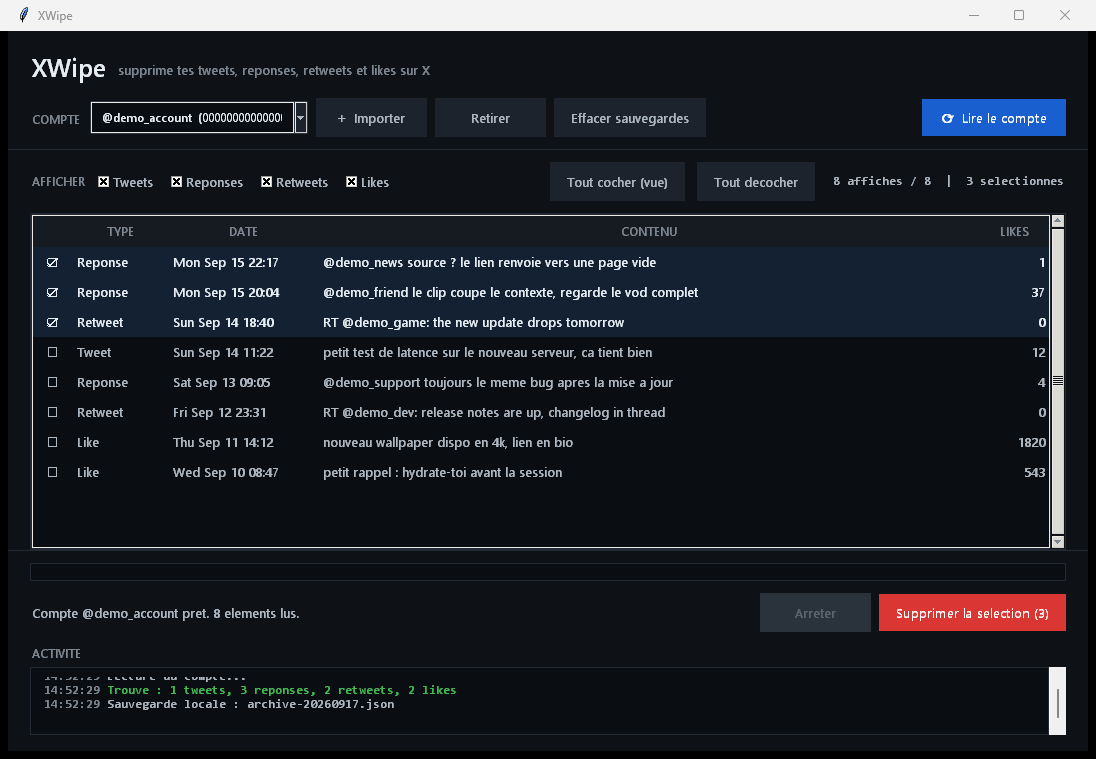
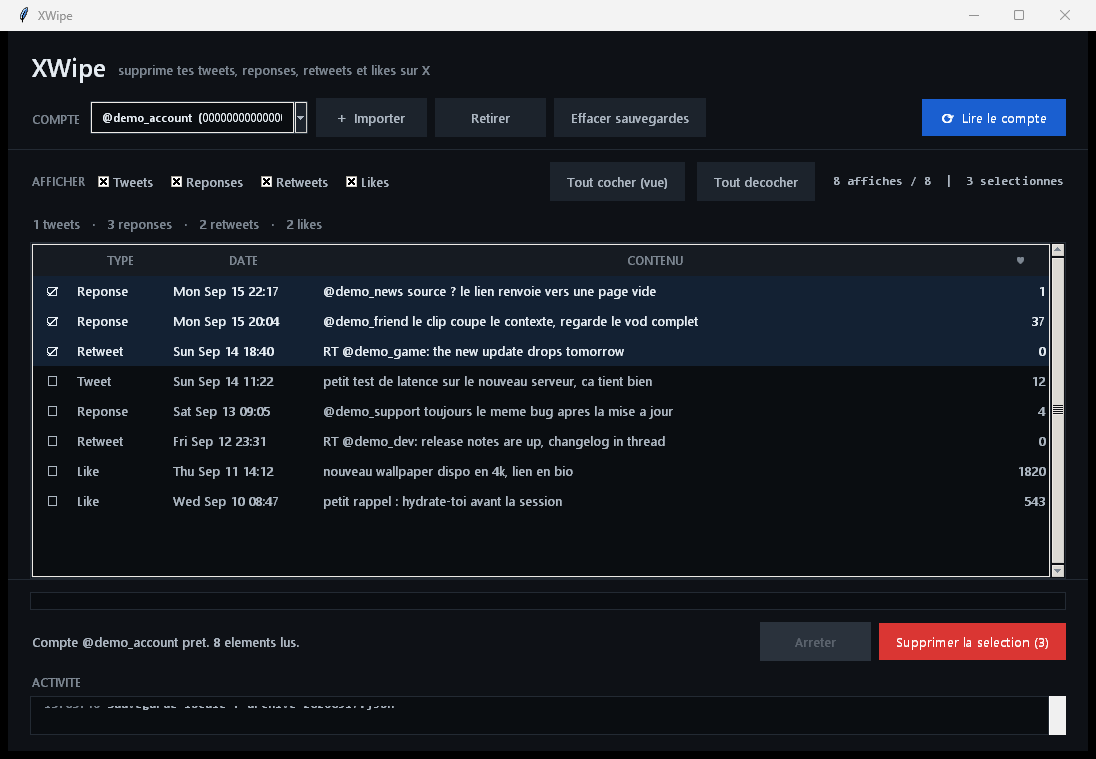
Handle large lists and clarify the table
Insert rows in batches so a scan with thousands of likes never freezes the UI
(3000 rows load in under 0.1s), with a generation guard that cancels a fill in
progress when a filter changes. Bulk check/uncheck now covers the whole filtered
view, not only the rows already inserted, so selecting all of several thousand
likes works while the table is still filling.

Add a per-category recap line (N tweets, replies, retweets, likes) for
at-a-glance recognition, and rename the metric column to a heart so the word
"like" no longer means the column, the row type, and the filter at once.

diff --git a/xwipe/app.py b/xwipe/app.py
@@ -109,6 +109,8 @@ class App(tk.Tk):
         self.checked: set[str] = set()
         self.row_by_iid: dict[str, dict] = {}
         self.current: dict | None = None
+        self._gen = 0                # generation, pour annuler un remplissage en cours
+        self._pending: list[dict] = []  # lignes filtrees a inserer par lots
 
         self._build_style()
         self._build_layout()
@@ -234,6 +236,12 @@ class App(tk.Tk):
         ttk.Button(filt, text="Tout cocher (vue)", style="Ghost.TButton",
                    command=self._check_all).pack(side="right", padx=SP["xs"])
 
+        # -- Recap par categorie : reconnaissance d'un coup d'oeil ------------
+        brk = ttk.Frame(self, padding=(SP["xl"], 0, SP["xl"], SP["sm"]))
+        brk.pack(fill="x")
+        self.breakdown = ttk.Label(brk, text="", style="Muted.TLabel")
+        self.breakdown.pack(side="left")
+
         # -- Table : surface enfoncee, bordure hairline, etat vide ------------
         mid = ttk.Frame(self, padding=(SP["xl"], 0, SP["xl"], 0))
         mid.pack(fill="both", expand=True)
@@ -248,7 +256,7 @@ class App(tk.Tk):
         for c, txt, w, anchor, stretch in (
                 ("check", "", 40, "center", False), ("kind", "TYPE", 96, "w", False),
                 ("date", "DATE", 150, "w", False), ("text", "CONTENU", 560, "w", True),
-                ("likes", "LIKES", 70, "e", False)):
+                ("likes", "♥", 58, "e", False)):  # metrique, distinct du type "Like"
             self.tree.heading(c, text=txt)
             self.tree.column(c, width=w, anchor=anchor, stretch=stretch)
         self.tree.tag_configure("on", background=C["sel"], foreground=C["text"])
@@ -434,33 +442,66 @@ class App(tk.Tk):
         else:
             self.empty.place_forget()
 
+    KINDS = {"tweet": "Tweet", "reply": "Reponse", "retweet": "Retweet",
+             "like": "Like"}
+
+    def _update_breakdown(self):
+        if not self.records:
+            self.breakdown.configure(text="")
+            return
+        c = {"tweet": 0, "reply": 0, "retweet": 0, "like": 0}
+        for r in self.records:
+            c[r["kind"]] = c.get(r["kind"], 0) + 1
+        self.breakdown.configure(
+            text="%d tweets   ·   %d reponses   ·   %d retweets   ·   %d likes"
+            % (c["tweet"], c["reply"], c["retweet"], c["like"]))
+
     def _repopulate(self):
+        # Insertion par lots : un compte peut avoir des milliers de likes, tout
+        # inserer d'un coup gelerait l'interface. Une generation annule un
+        # remplissage encore en cours si un filtre change entre-temps.
+        self._gen += 1
+        gen = self._gen
         self.tree.delete(*self.tree.get_children())
         self.row_by_iid.clear()
-        shown = 0
-        for rec in self.records:
-            if not self.cat_vars.get(rec["kind"], tk.BooleanVar(value=True)).get():
-                continue
+        default_on = tk.BooleanVar(value=True)
+        self._pending = [r for r in self.records
+                         if self.cat_vars.get(r["kind"], default_on).get()]
+        self._update_breakdown()
+        if not self._pending:
+            self._update_counts(0)
+            return
+        self._insert_batch(gen, 0)
+
+    def _insert_batch(self, gen: int, start: int):
+        if gen != self._gen:
+            return
+        for rec in self._pending[start:start + 400]:
             on = rec["id"] in self.checked
-            kind = {"tweet": "Tweet", "reply": "Reponse", "retweet": "Retweet",
-                    "like": "Like"}.get(rec["kind"], rec["kind"])
-            date = (rec.get("created_at") or "")[:16]
             text = (rec.get("text") or "").replace("\n", " ")
             if len(text) > 120:
                 text = text[:117] + "..."
             iid = self.tree.insert(
                 "", "end", tags=("on" if on else "off",),
-                values=(CHECK_ON if on else CHECK_OFF, kind, date, text,
+                values=(CHECK_ON if on else CHECK_OFF,
+                        self.KINDS.get(rec["kind"], rec["kind"]),
+                        (rec.get("created_at") or "")[:16], text,
                         rec.get("likes") or 0))
             self.row_by_iid[iid] = rec
-            shown += 1
-        self._update_counts(shown)
+        done = min(start + 400, len(self._pending))
+        if done < len(self._pending):
+            self._update_counts(done, partial=True)
+            self.after(1, lambda: self._insert_batch(gen, done))
+        else:
+            self._update_counts(done)
 
-    def _update_counts(self, shown: int):
+    def _update_counts(self, shown: int, partial: bool = False):
         total = len(self.records)
         self.count_lbl.configure(
-            text="%d affiches / %d  |  %d selectionnes" % (shown, total, len(self.checked)))
-        self._show_empty(shown == 0, filtered=(total > 0 and shown == 0))
+            text="%d affiches / %d  |  %d selectionnes%s"
+            % (shown, total, len(self.checked), "  ..." if partial else ""))
+        if not partial:
+            self._show_empty(shown == 0, filtered=(total > 0 and shown == 0))
         self._sync_delete_button()
 
     def _sync_delete_button(self):
@@ -496,19 +537,24 @@ class App(tk.Tk):
         self._update_counts(len(self.tree.get_children()))
         return "break"
 
-    def _check_all(self):
+    def _bulk_check(self, on: bool):
+        # Agit sur toute la vue filtree (_pending), pas seulement les lignes deja
+        # inserees : les lignes restantes liront `checked` a leur insertion.
+        for rec in self._pending:
+            if on:
+                self.checked.add(rec["id"])
+            else:
+                self.checked.discard(rec["id"])
         for iid in self.tree.get_children():
-            rec = self.row_by_iid.get(iid)
-            if rec:
-                self._set_row(iid, rec, True)
-        self._update_counts(len(self.tree.get_children()))
+            self.tree.set(iid, "check", CHECK_ON if on else CHECK_OFF)
+            self.tree.item(iid, tags=("on" if on else "off",))
+        self._update_counts(len(self._pending))
+
+    def _check_all(self):
+        self._bulk_check(True)
 
     def _check_none(self):
-        for iid in self.tree.get_children():
-            rec = self.row_by_iid.get(iid)
-            if rec:
-                self._set_row(iid, rec, False)
-        self._update_counts(len(self.tree.get_children()))
+        self._bulk_check(False)
 
     # ------------------------------------------------------------ actions
 
